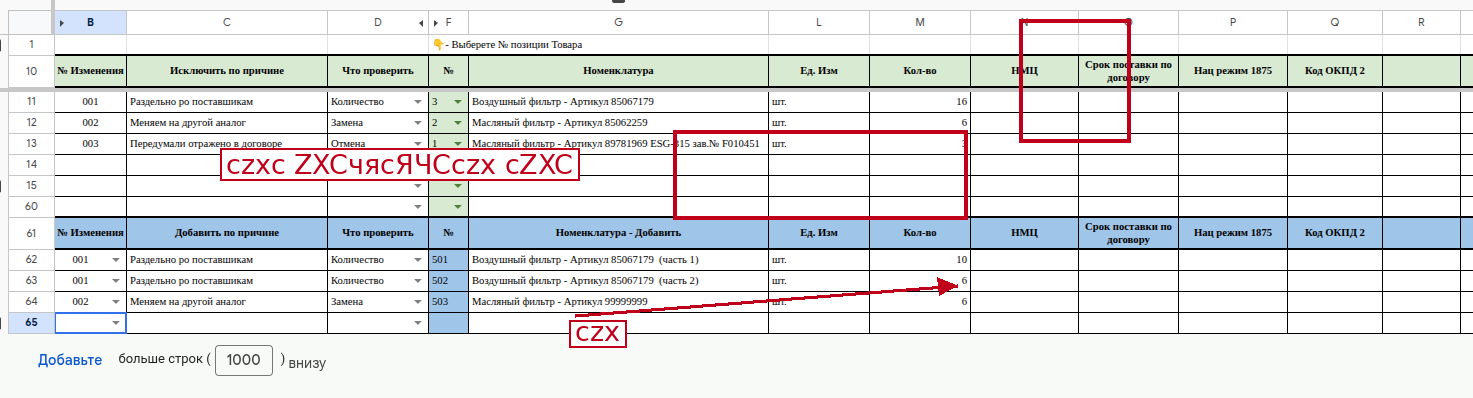
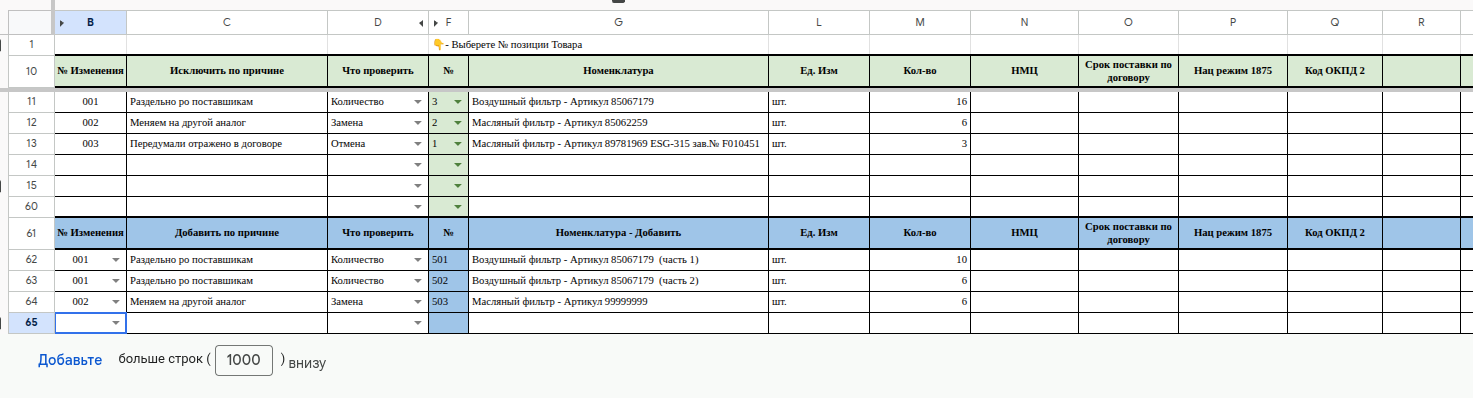
docs: Antigravity note, memo commands, changelog

diff --git a/think/au-antigravity.md b/think/au-antigravity.md
@@ -1,0 +1,41 @@
+# Antigravity CLI (agy) на стенде — заметка
+
+2026-10-21. Поставлен `agy` 1.4.4 в `.tools/agy/agy` (`make agy-setup`). Это консольный агент Google для работы с
+кодом — как Claude Code, но на моделях Gemini. По сторонним обзорам, в 2026 он заменил Gemini CLI.
+Официальный репозиторий: github.com/google-antigravity/antigravity-cli.
+
+## Как поставлен
+
+Официальный `install.sh` кладёт программу в `~/.local/bin` и сам правит профиль оболочки (`agy install`). Правила
+стенда запрещают менять что-то вне `~/pr`, поэтому `tools/agy-setup.sh` повторяет его шаги вручную: манифест →
+загрузка → сверка SHA-512 → распаковка в `.tools/agy/`. Профиль не трогается.
+
+Запуск: `.tools/agy/agy` или `alias agy=~/pr/orb-work/.tools/agy/agy`.
+
+## Вход (делает директор)
+
+Первый запуск `.tools/agy/agy` по SSH печатает ссылку входа через Google — открыть на ноутбуке. Другой вариант —
+ключ Gemini API. Свои настройки и вход `agy`, скорее всего, хранит в домашней папке (`~/.antigravity`, `~/.config`
+или похоже) — это вне `~/pr`, но это его собственные файлы. Я их не открываю.
+
+## Что умеет (по `agy --help`)
+
+- Диалог в терминале. Разовый запрос без диалога: `-p "…"`, ответ можно получить в JSON (`--output-format json`)
+  и по схеме (`--json-schema`). Это основа для автоматизации: скрипт задаёт вопрос и разбирает ответ.
+- Режимы `plan`, `accept-edits`, `auto`; `--sandbox` — ограничения терминала; `--add-dir` — дать папку.
+- MCP-серверы (`agy mcp add …`), плагины, агенты.
+- `remote-control` — управление сессией с другого устройства.
+
+## Чему научиться — по шагам
+
+1. Войти, задать простой вопрос по папке `inst/` в режиме `plan` (ничего не меняет).
+2. Разовый запрос `-p` с ответом в JSON на неважных данных — например, «перечисли листы в `lis/listy.yaml`».
+3. Подключить MCP, если нужен доступ к чему-то ещё.
+
+## Идеи автоматизации (не начаты, решает директор)
+
+- Черновики описаний столбцов (`stolbtsy.yaml`) по формулам — для второго мнения рядом с моими.
+- Разбор писем поставщиков в цены и сроки — только на обезличенных данных и только после маски.
+
+**Осторожно:** `agy` отправляет то, что ему дают, в Google. Рабочие данные компании ему не давать, пока директор
+не решит, что можно. Это то же правило, что «ничего не выносить наружу».

diff --git a/CHANGELOG.md b/CHANGELOG.md
@@ -32,3 +32,4 @@
 - листы таблиц: реестр всех 78 листов обеих таблиц (`lis/listy.yaml`), устройство из xlsx (`make listy` → `struktura.yaml`: столбцы, вид, списки, формулы, связи; без данных строк), заготовки описаний и `stolbtsy.yaml` для заполнения; страница листа — устройство, связи с картой соседей, обязанности на листе, столбцы, переменные, формулы; обзоры таблиц с картой контуров и картами по контурам; вопросы раунда 5 (`task/aq-inst-listy`).
 - черновик столбцов 11 листов — 5-0…5-5 и аналогов контура 1 (1-0, 1-1, 1-2, 3-3) по формулам и инструкциям 3.1.2–3.1.8; шаблон `*`/`?` в `stolbtsy.yaml` — одно описание на повторяющийся блок; страницы 1-0, 1-1, 1-2, 3-3 заполнены; справочники «Настройки писем», «Справочники» и «Лист49» описаны; у 8 листов «сведений нет»; вопросы раунда 6 (`task/ar-inst-stolbtsy`).
 - подписи на снимках отдельно от снимка: `<снимок>.podpisi.yaml`, редактор `make podpisi` (страница на стенде, вход через `ssh -L`), `make inst` рисует рамки, стрелки, номера и текст поверх чистого снимка (`task/as-inst-podpisi`).
+- Google на стенде: вебхук чтения таблицы `tools/veb` (только чтение; маска цветом: можно / тег / нельзя; проверка на заглушке в `make test`), импорт листов читает и JSON вебхука; clasp 3.4.1 (`make gas-pull`, запись только в копии); Antigravity CLI в `.tools/agy` и заметка `think/au-antigravity.md` (`try/au-google-veb`).

diff --git a/inst/src/standarty/pamyatka/index.md b/inst/src/standarty/pamyatka/index.md
@@ -43,6 +43,9 @@ nuzhno:
 |---|---|
 | `make inst` | собрать `inst/md-out` |
 | `make test` | проверить всё; должно кончиться словами `orb-work: ok` |
+| `make veb-zabrat IMYA=proekta` | забрать устройство таблицы из вебхука в `raw/veb/` (как поставить — `tools/veb/README.md`) |
+| `make gas-pull ID=… NAME=…` | скачать скрипты Apps Script копии в `raw/gas/NAME`; `gas-kopiya`, `gas-push`, `veb-push` — запись, только в копию |
+| `make agy-setup` | поставить Antigravity CLI в `.tools/agy` (заметка — `think/au-antigravity.md`) |
 | `make podpisi` | редактор подписей на снимках; с ноутбука: `ssh -L 8765:localhost:8765 ag12`, потом в браузере http://localhost:8765 |
 | `make full F=tio.skr-zapusk-triggerov` | собрать короткий и полный md инструкции в `inst/md-full-out/tio/` |
 | `make inst OUT=папка` | собрать в другую папку (версия, выгрузка) |

diff --git a/inst/md-out/standarty/pamyatka/index.md b/inst/md-out/standarty/pamyatka/index.md
@@ -34,6 +34,9 @@
 |---|---|
 | `make inst` | собрать `inst/md-out` |
 | `make test` | проверить всё; должно кончиться словами `orb-work: ok` |
+| `make veb-zabrat IMYA=proekta` | забрать устройство таблицы из вебхука в `raw/veb/` (как поставить — `tools/veb/README.md`) |
+| `make gas-pull ID=… NAME=…` | скачать скрипты Apps Script копии в `raw/gas/NAME`; `gas-kopiya`, `gas-push`, `veb-push` — запись, только в копию |
+| `make agy-setup` | поставить Antigravity CLI в `.tools/agy` (заметка — `think/au-antigravity.md`) |
 | `make podpisi` | редактор подписей на снимках; с ноутбука: `ssh -L 8765:localhost:8765 ag12`, потом в браузере http://localhost:8765 |
 | `make full F=tio.skr-zapusk-triggerov` | собрать короткий и полный md инструкции в `inst/md-full-out/tio/` |
 | `make inst OUT=папка` | собрать в другую папку (версия, выгрузка) |
